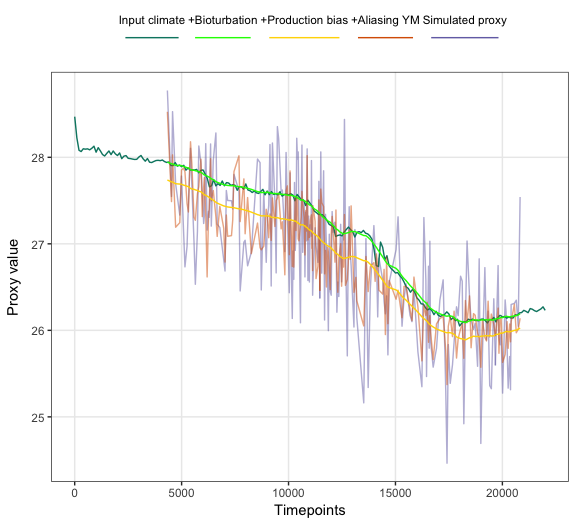
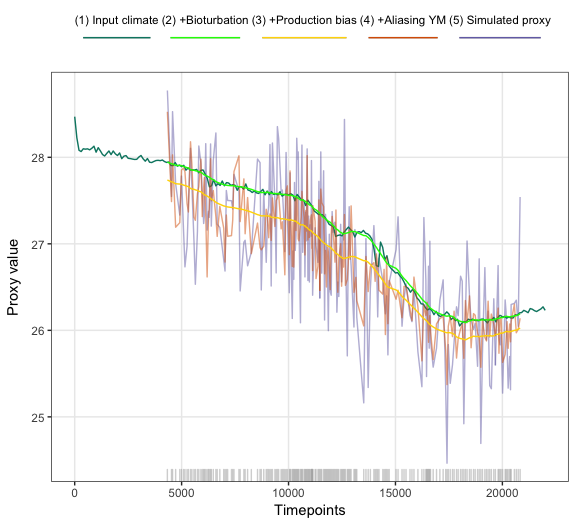
document example data

Changed region(s): [[0.125, 0.0303, 0.9688, 0.0909], [0.2812, 0.8788, 0.9062, 0.9091]]

diff --git a/readme.md b/readme.md
@@ -149,18 +149,18 @@ PFM$everything
 
 ```
 ## # A tibble: 9,725 x 9
-##    timepoints replicate             stage    value       label
-##         <dbl>     <dbl>             <chr>    <dbl>       <chr>
-##  1       4334         1 proxy.bt.sb.sampY 27.77735 +Aliasing Y
-##  2       4527         1 proxy.bt.sb.sampY 27.71641 +Aliasing Y
-##  3       4576         1 proxy.bt.sb.sampY 27.74539 +Aliasing Y
-##  4       4721         1 proxy.bt.sb.sampY 27.68920 +Aliasing Y
-##  5       4914         1 proxy.bt.sb.sampY 27.66205 +Aliasing Y
-##  6       4994         1 proxy.bt.sb.sampY 27.66351 +Aliasing Y
-##  7       5092         1 proxy.bt.sb.sampY 27.67081 +Aliasing Y
-##  8       5156         1 proxy.bt.sb.sampY 27.65508 +Aliasing Y
-##  9       5254         1 proxy.bt.sb.sampY 27.65605 +Aliasing Y
-## 10       5318         1 proxy.bt.sb.sampY 27.62041 +Aliasing Y
+##    timepoints replicate             stage    value           label
+##         <dbl>     <dbl>             <chr>    <dbl>           <chr>
+##  1       4334         1 proxy.bt.sb.sampY 27.77735 (4) +Aliasing Y
+##  2       4527         1 proxy.bt.sb.sampY 27.71641 (4) +Aliasing Y
+##  3       4576         1 proxy.bt.sb.sampY 27.74539 (4) +Aliasing Y
+##  4       4721         1 proxy.bt.sb.sampY 27.68920 (4) +Aliasing Y
+##  5       4914         1 proxy.bt.sb.sampY 27.66205 (4) +Aliasing Y
+##  6       4994         1 proxy.bt.sb.sampY 27.66351 (4) +Aliasing Y
+##  7       5092         1 proxy.bt.sb.sampY 27.67081 (4) +Aliasing Y
+##  8       5156         1 proxy.bt.sb.sampY 27.65508 (4) +Aliasing Y
+##  9       5254         1 proxy.bt.sb.sampY 27.65605 (4) +Aliasing Y
+## 10       5318         1 proxy.bt.sb.sampY 27.62041 (4) +Aliasing Y
 ## # ... with 9,715 more rows, and 4 more variables: description <chr>,
 ## #   plot.order <dbl>, plotting.colour <chr>, plotting.alpha <dbl>
 ```
@@ -173,6 +173,11 @@ PFM$everything %>%
   PlotPFMs(max.replicates = 1)
 ```
 
+```
+## Scale for 'alpha' is already present. Adding another scale for 'alpha',
+## which will replace the existing scale.
+```
+
 ![](readme_files/figure-html/default_plot-1.png)<!-- -->
 
 
@@ -183,6 +188,11 @@ PFM$everything %>%
 PFM$everything %>% 
   filter(stage == "simulated.proxy") %>% 
   PlotPFMs(., max.replicates = 5)
+```
+
+```
+## Scale for 'alpha' is already present. Adding another scale for 'alpha',
+## which will replace the existing scale.
 ```
 
 ![](readme_files/figure-html/plot_reps-1.png)<!-- -->
